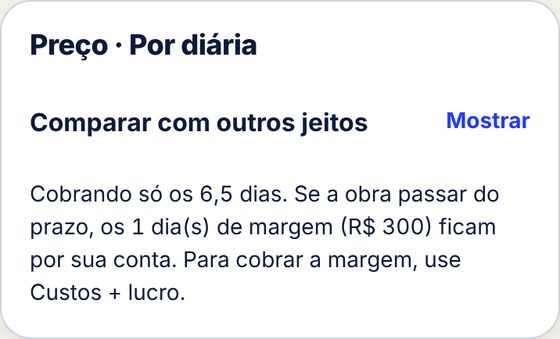
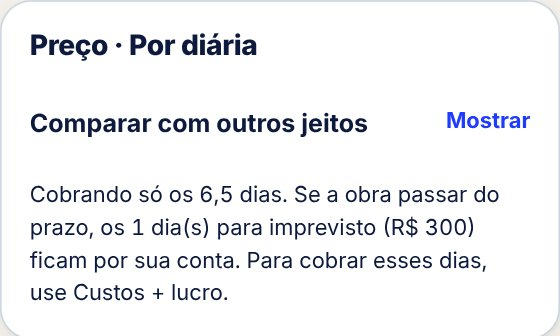
Textos na língua do pintor: 'valor mínimo' no lugar de 'piso', 'dias para imprevisto' no lugar de 'margem de erro', 'quanto você rende por dia' no lugar de 'ritmo'
- Mesmos cálculos; só textos de tela
- Ajuda: textos e 6 prints refeitos (dias e preço nos 3 jeitos de cobrar)

Claude-Session: https://claude.ai/code/session_011c2NkKxwMPXvpaKXXJgKns

diff --git a/orcamento/index.html b/orcamento/index.html
@@ -411,7 +411,7 @@ details .in{display:flex;flex-direction:column;gap:10px;margin-top:8px}
         <h2>Dias e equipe</h2>
         <div class="row">
           <label>Dias de serviço<input id="dias" inputmode="decimal"></label>
-          <label>Margem de erro (dias)<input id="erro" inputmode="decimal"></label>
+          <label>Dias para imprevisto<input id="erro" inputmode="decimal"></label>
         </div>
         <p class="hint" id="dias-hint"></p>
         <div class="step" style="min-height:44px">Ajudantes <button id="aj-menos" aria-label="Menos um ajudante">−</button><span id="aj-n">0</span><button id="aj-mais" aria-label="Mais um ajudante">+</button></div>
@@ -565,7 +565,7 @@ details .in{display:flex;flex-direction:column;gap:10px;margin-top:8px}
     <div class="sheet" id="sheet"></div>
     <div class="actions">
       <div class="ex-bar" id="ex-bar" hidden><b>Isto é um exemplo.</b><span>O seu sai igual, com o seu nome e os seus preços.</span><button class="mic" id="ex-fazer">Fazer o meu agora</button><button class="link" id="ex-voltar" style="min-height:44px">Voltar</button></div>
-      <div class="festa" id="festa" hidden><span class="tr-mini" id="festa-trena"></span><div><h3>Mandou! Agora é fechar.</h3><p>Se o cliente pedir desconto, lembra do seu piso.</p><button class="link" style="color:#C8FF2E" data-coment="pos-envio" data-coment-nota>Dar nota para o Na Bucha</button></div></div>
+      <div class="festa" id="festa" hidden><span class="tr-mini" id="festa-trena"></span><div><h3>Mandou! Agora é fechar.</h3><p>Se o cliente pedir desconto, lembra do seu valor mínimo.</p><button class="link" style="color:#C8FF2E" data-coment="pos-envio" data-coment-nota>Dar nota para o Na Bucha</button></div></div>
       <a class="wa" id="wa" href="#" target="_blank" rel="noopener">Enviar no WhatsApp</a>
       <div class="acts-min">
         <button class="link" id="copy">Copiar texto</button>
@@ -817,7 +817,7 @@ const porM2=()=>O.modo==='m2';
 function nAjud(){return O.ajud===true?1:Math.max(0,Math.floor(Number(O.ajud)||0))}
 const JEITO_HINT={custo:'Diga os dias e a equipe abaixo. Não sabe os dias? Meça os cômodos e o Na Bucha sugere.',
   diaria:'Diga os dias abaixo. Não sabe? Meça os cômodos e o Na Bucha sugere.',m2:'',
-  fechado:'O valor você digita na revisão. Os dias servem para o prazo e para o seu piso (o mínimo que pode cobrar).'};
+  fechado:'O valor você digita na revisão. Os dias servem para o prazo e para o seu valor mínimo (abaixo dele você tem prejuízo).'};
 function renderJeito(){
   $$('#jeito [data-jeito]').forEach(b=>{const on=b.dataset.jeito===O.modo;b.classList.toggle('on',on);b.setAttribute('aria-pressed',on)});
   const ab=!!O.jeitoAberto;$('#jeito').hidden=!ab;$('#jeito-hint').hidden=!ab;$('#jeito-res').hidden=ab;
@@ -870,7 +870,7 @@ function renderCfg(){
   $('#cfg-diaria').value=C.diaria;$('#cfg-validade').value=C.validade;$('#cfg-prep').value=C.prep;$('#cfg-showmat').checked=!!C.showMat;
   $('#cfg-pay').innerHTML=PAYS.map(p=>`<button class="chip ${C.pay.includes(p)?'on':''}" data-pay="${p}" aria-pressed="${C.pay.includes(p)}">${p}</button>`).join('');
   $('#cfg-adv').innerHTML=C.svcs.map(s=>`<div class="cfg-svc" data-ca="${s.k}"><strong>${esc(s.nome)}</strong>
-    <label>Seu ritmo: m² por dia, numa demão<input inputmode="decimal" data-ca-f="prod" value="${esc(s.prod)}"></label>
+    <label>Quanto você rende por dia (m², 1 demão)<input inputmode="decimal" data-ca-f="prod" value="${esc(s.prod)}"></label>
     ${s.m?(typeof s.m.rend==='object'?`<div class="row3">${Object.keys(LINHA).map(l=>`<label>Rende ${LINHA[l]} (m²/demão)<input inputmode="decimal" data-rend="${l}" value="${esc(s.m.rend[l])}"></label>`).join('')}</div>`
       :`<label>Rende por demão (m² por ${esc(s.m.g)})<input inputmode="decimal" data-ca-m="rend" value="${esc(s.m.rend)}"></label>`)+
       `<div class="row"><label class="money">Preço ${esc(s.m.g)}<input inputmode="decimal" data-ca-m="pg" value="${esc(s.m.pg)}"></label><label class="money">Preço ${esc(s.m.p)}<input inputmode="decimal" data-ca-m="pp" value="${esc(s.m.pp)}"></label></div>`:'<p class="hint">Sem material calculado.</p>'}
@@ -880,13 +880,13 @@ function renderCfg(){
 // ---------- atualização dos números ----------
 function refreshDias(k){
   $('#dias').placeholder=k.dias?dd(k.dias):'';$('#erro').placeholder=String(k.erroAuto);
-  $('#dias-hint').innerHTML=(k.dias?`Sugestão pelas medidas e pelo seu ritmo: <b>${dd(k.dias)} dias</b>${k.repDias?` (com ${dd(k.repDias)} de reparos)`:''}. Mude se souber melhor.`:(porM2()?'':'Sem medidas: digite os dias que você acha que leva.'))+
-    ` A margem de erro vale ${nAjud()?'para você e '+(nAjud()>1?'os ajudantes':'o ajudante'):'para a equipe toda'}.`+
+  $('#dias-hint').innerHTML=(k.dias?`Sugestão pelas medidas e pelo que você rende por dia: <b>${dd(k.dias)} dias</b>${k.repDias?` (com ${dd(k.repDias)} de reparos)`:''}. Mude se souber melhor.`:(porM2()?'':'Sem medidas: digite os dias que você acha que leva.'))+
+    ` Os dias para imprevisto (chuva, secagem) valem ${nAjud()?'para você e '+(nAjud()>1?'os ajudantes':'o ajudante'):'para a equipe toda'}.`+
     (!vazio(O.diasM)&&k.dias&&Math.abs(k.dias-k.diasU)>=2&&Math.abs(k.dias-k.diasU)/Math.max(k.dias,k.diasU)>=0.3?
-      `<span class="voz-falta" style="display:block;margin-top:8px">Você pôs <b>${dd(k.diasU)} dias</b>, mas pelas medidas e pelo seu ritmo dá <b>${dd(k.dias)}</b>. Confira. <button class="link" data-usar-dias>Usar ${dd(k.dias)} dias</button></span>`:'');
+      `<span class="voz-falta" style="display:block;margin-top:8px">Você pôs <b>${dd(k.diasU)} dias</b>, mas pelas medidas e pelo que você rende dá <b>${dd(k.dias)}</b>. Confira. <button class="link" data-usar-dias>Usar ${dd(k.dias)} dias</button></span>`:'');
   $('#outros-sum').textContent=k.outros?brl0(k.outros):'Opcional';
   const fl=$('#floor');fl.hidden=!k.piso;
-  fl.innerHTML=`<span>Seu piso · só você vê</span><strong>${brl(k.piso)}</strong><span>${dd(k.diasU)} dias + ${dd(k.erro)} de margem × ${brl0(k.dPint+k.dAj)}${k.dAj?` (você + ${nAjud()} ajudante${nAjud()>1?'s':''})`:''}${k.outros?' + '+brl0(k.outros)+' de outros custos':''}. Abaixo disso, se der problema, você paga para trabalhar.</span>`;
+  fl.innerHTML=`<span>Seu valor mínimo · só você vê</span><strong>${brl(k.piso)}</strong><span>${dd(k.diasU)} dias + ${dd(k.erro)} para imprevisto × ${brl0(k.dPint+k.dAj)}${k.dAj?` (você + ${nAjud()} ajudante${nAjud()>1?'s':''})`:''}${k.outros?' + '+brl0(k.outros)+' de outros custos':''}. Abaixo disso, se der problema, você paga para trabalhar.</span>`;
 }
 function refresh(){
   const k=calc();
@@ -909,16 +909,16 @@ function refresh(){
       if(semMed&&O.mat.inclui&&O.mat.auto)$('#mat-val').value='';
       if(!semMed&&O.mat.inclui&&O.mat.auto){$('#mat-val').value=k.matCusto.toFixed(2).replace('.',',')}
       refreshDias(k);
-      const sub=(v)=>k.piso&&v&&v<k.piso-0.5?'<span class="bad">abaixo do piso</span>':'';
-      $('#v-cu').textContent=brl0(k.maoCu);$('#d-cu').innerHTML=`piso + ${dd(k.lucroP)}%`;
+      const sub=(v)=>k.piso&&v&&v<k.piso-0.5?'<span class="bad">abaixo do mínimo</span>':'';
+      $('#v-cu').textContent=brl0(k.maoCu);$('#d-cu').innerHTML=`mínimo + ${dd(k.lucroP)}%`;
       $('#v-di').textContent=brl0(k.maoDi);$('#d-di').innerHTML=sub(k.maoDi)||(k.diasU?`${dd(k.diasU)} dias × ${brl0(k.dPint+k.dAj)}`:'');
       $('#v-m2').textContent=k.P+k.T?brl0(k.maoM2):'—';$('#d-m2').innerHTML=!(k.P+k.T)?'Precisa das medidas':sub(k.maoM2)||(k.diasU?`${brl0(k.maoM2/k.diasU)} por dia`:'');
       $('#v-fe').textContent=k.maoFe?brl0(k.maoFe):'—';$('#d-fe').innerHTML=sub(k.maoFe)||'Você digita o valor';
       let v='';
       if(O.modo==='custo'&&k.piso){const luc=k.maoCu-k.piso;v=`Lucro de <b>${brl0(luc)}</b> (${dd(luc/k.maoCu*100)}% do preço). Se pedirem desconto, não desça de ${brl0(k.piso)}.`}
-      else if(O.modo==='diaria'&&k.erro&&k.mao&&Math.abs(k.mao+k.erro*(k.dPint+k.dAj)+k.outros-k.piso)<0.5)v=`Cobrando só os ${dd(k.diasU)} dias. Se a obra passar do prazo, os ${dd(k.erro)} dia(s) de margem (${brl0(k.erro*(k.dPint+k.dAj))})${k.outros?' e os outros custos':''} ficam por sua conta. Para cobrar a margem, use Custos + lucro.`;
-      else if(k.piso&&k.mao&&k.mao<k.piso-0.5)v=`<span class="bad">Atenção:</span> ${brl0(k.mao)} fica ${brl0(k.piso-k.mao)} abaixo do seu piso. Se a obra atrasar, você tem prejuízo.`;
-      else if(k.piso&&k.mao){const luc=k.mao-k.piso;v=`Sobra <b>${brl0(luc)}</b> acima do piso (${dd(luc/k.mao*100)}% do preço).`}
+      else if(O.modo==='diaria'&&k.erro&&k.mao&&Math.abs(k.mao+k.erro*(k.dPint+k.dAj)+k.outros-k.piso)<0.5)v=`Cobrando só os ${dd(k.diasU)} dias. Se a obra passar do prazo, os ${dd(k.erro)} dia(s) para imprevisto (${brl0(k.erro*(k.dPint+k.dAj))})${k.outros?' e os outros custos':''} ficam por sua conta. Para cobrar esses dias, use Custos + lucro.`;
+      else if(k.piso&&k.mao&&k.mao<k.piso-0.5)v=`<span class="bad">Atenção:</span> ${brl0(k.mao)} fica ${brl0(k.piso-k.mao)} abaixo do seu valor mínimo. Se a obra atrasar, você tem prejuízo.`;
+      else if(k.piso&&k.mao){const luc=k.mao-k.piso;v=`Sobra <b>${brl0(luc)}</b> acima do seu mínimo (${dd(luc/k.mao*100)}% do preço).`}
       $('#verdict').innerHTML=v;
       if(O.prazoAuto){const pz=k.diasU+k.erro;O.prazo=pz?String(Math.ceil(pz)):'';$('#prazo').value=O.prazo}
     }

diff --git a/ajuda/index.html b/ajuda/index.html
@@ -83,16 +83,16 @@ figcaption{font-size:14px;color:var(--cinza);margin-top:4px}
 <h3>Custos + lucro</h3>
 <span class="quando">Quando: você quer saber quanto ganha de verdade</span>
 <p>Você informa os <b>dias de serviço</b> e os <b>ajudantes</b>. Se tiver, abra <b>Outros custos da obra</b> (alimentação, combustível, ferramentas, aluguel de equipamento). Na revisão, escolha quanto quer ganhar em cima dos custos. O app mostra o seu lucro e até onde dá para descer se pedirem desconto.</p>
-<figure><img src="img/custo-dias.jpg" alt="Cartão Dias e equipe com dias de serviço, margem de erro e ajudantes" loading="lazy"><figcaption>Não sabe os dias? Com os cômodos medidos, o app sugere.</figcaption></figure>
-<figure><img src="img/custo-preco.jpg" alt="Escolha da porcentagem de ganho e aviso de lucro e piso de desconto" loading="lazy"><figcaption>Escolha a porcentagem e veja o lucro.</figcaption></figure>
+<figure><img src="img/custo-dias.jpg" alt="Cartão Dias e equipe com dias de serviço, dias para imprevisto e ajudantes" loading="lazy"><figcaption>Não sabe os dias? Com os cômodos medidos, o app sugere.</figcaption></figure>
+<figure><img src="img/custo-preco.jpg" alt="Escolha da porcentagem de ganho e aviso de lucro e valor mínimo para desconto" loading="lazy"><figcaption>Escolha a porcentagem e veja o lucro.</figcaption></figure>
 </div>
 
 <div class="jeito" id="diaria">
 <h3>Por diária</h3>
 <span class="quando">Quando: você cobra por dia trabalhado</span>
-<p>Você informa os <b>dias de serviço</b> e a <b>margem de erro</b>. O preço é dias × sua diária (de Meus preços). O app avisa se a margem de erro vai sair do seu bolso.</p>
+<p>Você informa os <b>dias de serviço</b> e os <b>dias para imprevisto</b> (chuva, secagem). O preço é dias × sua diária (de Meus preços). O app avisa se esses dias de imprevisto vão sair do seu bolso.</p>
 <figure><img src="img/diaria-dias.jpg" alt="Cartão Dias e equipe no modo diária" loading="lazy"></figure>
-<figure><img src="img/diaria-preco.jpg" alt="Aviso do modo diária sobre os dias de margem" loading="lazy"><figcaption>O aviso mostra quanto custa a margem de erro.</figcaption></figure>
+<figure><img src="img/diaria-preco.jpg" alt="Aviso do modo diária sobre os dias para imprevisto" loading="lazy"><figcaption>O aviso mostra quanto custam os dias de imprevisto.</figcaption></figure>
 </div>
 
 <div class="jeito" id="m2">
@@ -100,13 +100,13 @@ figcaption{font-size:14px;color:var(--cinza);margin-top:4px}
 <span class="quando">Quando: você cobra pela área pintada</span>
 <p>Meça bem os cômodos no passo 1: aqui o preço sai das áreas. Mais demãos e mais reparos aumentam o valor do m² sozinho. Os dias servem para o prazo e para mostrar se o preço cobre o seu mínimo.</p>
 <figure><img src="img/m2-dias.jpg" alt="Cartão de dias no modo por metro quadrado" loading="lazy"></figure>
-<figure><img src="img/m2-preco.jpg" alt="Aviso de quanto sobra acima do piso no modo por metro quadrado" loading="lazy"><figcaption>O app mostra quanto sobra acima do seu mínimo.</figcaption></figure>
+<figure><img src="img/m2-preco.jpg" alt="Aviso de quanto sobra acima do valor mínimo no modo por metro quadrado" loading="lazy"><figcaption>O app mostra quanto sobra acima do seu mínimo.</figcaption></figure>
 </div>
 
 <div class="jeito" id="fechado">
 <h3>Preço fechado</h3>
 <span class="quando">Quando: você já sabe o valor que vai pedir</span>
-<p>Na revisão, digite o <b>valor da mão de obra</b>. Os dias servem para o prazo e para o seu piso, o mínimo que pode cobrar sem sair no prejuízo.</p>
+<p>Na revisão, digite o <b>valor da mão de obra</b>. Os dias servem para o prazo e para o seu valor mínimo, o menos que pode cobrar sem sair no prejuízo.</p>
 <figure><img src="img/fechado-preco.jpg" alt="Campo Valor da mão de obra no modo preço fechado" loading="lazy"></figure>
 </div>
 
